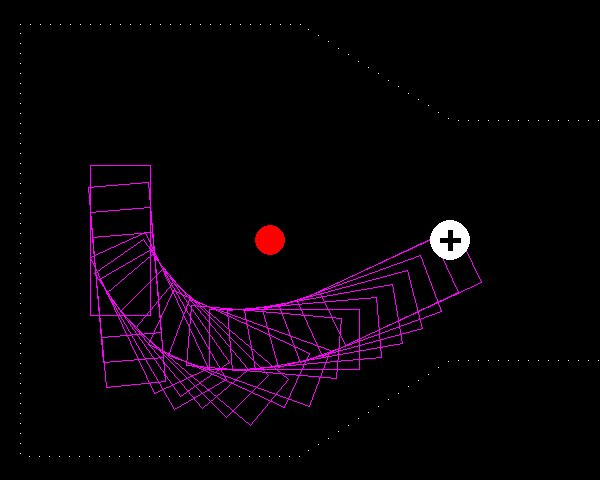
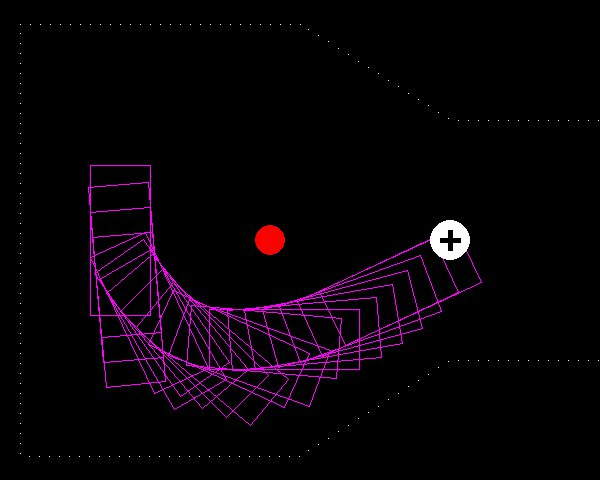
handle model name in dir name

diff --git a/scripts/DQN_modified_plus_simplified.py b/scripts/DQN_modified_plus_simplified.py
@@ -18,8 +18,10 @@ class DeepQNetwork:
             random_seed,
             n_agents_trained_model,
             random_seed_trained_model,
-            number_episode
+            number_episode,
+            model_name=""
     ):
+        self.model_name = model_name
         self.num_episodes = number_episode
         self.n_agents = n_agents
         self.step = 0
@@ -55,7 +57,7 @@ class DeepQNetwork:
         """
         Save weights to `path`
         """
-        parent_dir = f"models/job{self.n_agents}/{train_seed}/"
+        parent_dir = f"models/job{self.n_agents}{self.model_name}/{train_seed}/"
 
         # parent_dir = os.path.dirname(path)
         if not os.path.exists(parent_dir):
@@ -70,9 +72,9 @@ class DeepQNetwork:
         if num_trained == self.n_agents:  # same number of agents
             print(f"loading exact {num_trained} trained models")
             for i in range(self.n_agents):
-                self.Boxer[i].eval_net.load_weights(f"models/job{self.n_agents}/{train_seed}/model-{self.num_episodes}Boxer{i}-eval.h5")
+                self.Boxer[i].eval_net.load_weights(f"models/job{self.n_agents}{self.model_name}/{train_seed}/model-{self.num_episodes}Boxer{i}-eval.h5")
                 self.Boxer[i].target_net.load_weights(
-                    f"models/job{self.n_agents}/{train_seed}/model-{self.num_episodes}Boxer{i}-target.h5")
+                    f"models/job{self.n_agents}{self.model_name}/{train_seed}/model-{self.num_episodes}Boxer{i}-target.h5")
 
         elif num_trained < self.n_agents:
             np.random.seed(random_seed)
@@ -83,9 +85,9 @@ class DeepQNetwork:
             print(f"sampling from {num_trained} trained models to fit team of {self.n_agents}")
             for i, id in enumerate(idx):
                 self.Boxer[i].eval_net.load_weights(
-                    f"models/job{num_trained}/{train_seed}/model-{self.num_episodes}Boxer{id}-eval.h5")
+                    f"models/job{num_trained}{self.model_name}/{train_seed}/model-{self.num_episodes}Boxer{id}-eval.h5")
                 self.Boxer[i].target_net.load_weights(
-                    f"models/job{num_trained}/{train_seed}/model-{self.num_episodes}Boxer{id}-target.h5")
+                    f"models/job{num_trained}{self.model_name}/{train_seed}/model-{self.num_episodes}Boxer{id}-target.h5")
 
         else:  # if num_trained > self.n_agents
             np.random.seed(random_seed)
@@ -96,9 +98,9 @@ class DeepQNetwork:
             print(f"sampling from {num_trained} trained models to fit team of {self.n_agents}")
             for i, id in enumerate(idx):
                 self.Boxer[i].eval_net.load_weights(
-                    f"models/job{num_trained}/{train_seed}/model-{self.num_episodes}Boxer{id}-eval.h5")
+                    f"models/job{num_trained}{self.model_name}/{train_seed}/model-{self.num_episodes}Boxer{id}-eval.h5")
                 self.Boxer[i].target_net.load_weights(
-                    f"models/job{num_trained}/{train_seed}/model-{self.num_episodes}Boxer{id}-target.h5")
+                    f"models/job{num_trained}{self.model_name}/{train_seed}/model-{self.num_episodes}Boxer{id}-target.h5")
 
     def choose_action(self, observation):
         actions = []

diff --git a/train.py b/train.py
@@ -194,6 +194,8 @@ if __name__ == "__main__":
                             help='choose the number of agnet of trained model')
         parser.add_argument('-random_seed_trained_model', type=int, default=1,
                             help='choose the random seed number associated with trained models')
+        parser.add_argument('-model_name', type=str, default="",
+                            help='name of the model')
         args = parser.parse_args()
         print('=' * 50)
         print(args)
@@ -201,12 +203,14 @@ if __name__ == "__main__":
         NUMBER_OF_AGENT = args.number_agent
         random_seed = args.random_seed
         NUMBER_OF_AGNET_TRAINED_MODEL = args.number_agent_trained_model
+        model_name = args.model_name
         random_seed_trained_model = args.random_seed_trained_model
         np.random.seed(random_seed)
         tf.random.set_seed(random_seed)
     elif input_ == 'pycharm':
         NUMBER_OF_AGENT = 5
         random_seed = 5
+        model_name = ""
         np.random.seed(random_seed)
         tf.random.set_seed(random_seed)
 
@@ -225,7 +229,8 @@ if __name__ == "__main__":
                       random_seed=random_seed,
                       n_agents_trained_model=NUMBER_OF_AGNET_TRAINED_MODEL,
                       random_seed_trained_model=None,
-                      number_episode=num_episodes
+                      number_episode=num_episodes,
+                      model_name=model_name
                       )
 
     Boxer_list = []

diff --git a/run_this_greedy.py b/run_this_greedy.py
@@ -235,13 +235,16 @@ if __name__== "__main__":
                     help='choose the number of agent of trained model')
     parser.add_argument('-random_seed_trained_model', type=int, default=5,
                     help='choose the random seed number associated with trained models')
-    args = parser.parse_args()
+    parser.add_argument('-model_name', type=str, default="",
+                        help='name of the model')
+    args = parser.parse_args("")
     print('=' * 50)
     print(args)
     print('=' * 50)
     NUMBER_OF_AGENT = args.number_agent
     random_seed=args.random_seed
     NUMBER_OF_AGENT_TRAINED_MODEL = args.number_agent_trained_model
+    model_name = args.model_name
     random_seed_trained_model = args.random_seed_trained_model
     np.random.seed(random_seed)
     tf.random.set_seed(random_seed)
@@ -260,7 +263,8 @@ if __name__== "__main__":
                       random_seed=random_seed,
                       n_agents_trained_model=NUMBER_OF_AGENT_TRAINED_MODEL,
                       random_seed_trained_model=random_seed_trained_model,
-                      number_episode=num_episodes
+                      number_episode=num_episodes,
+                      model_name=model_name
                       )
     Boxer_list = []
     for i in range(NUMBER_OF_AGENT):
